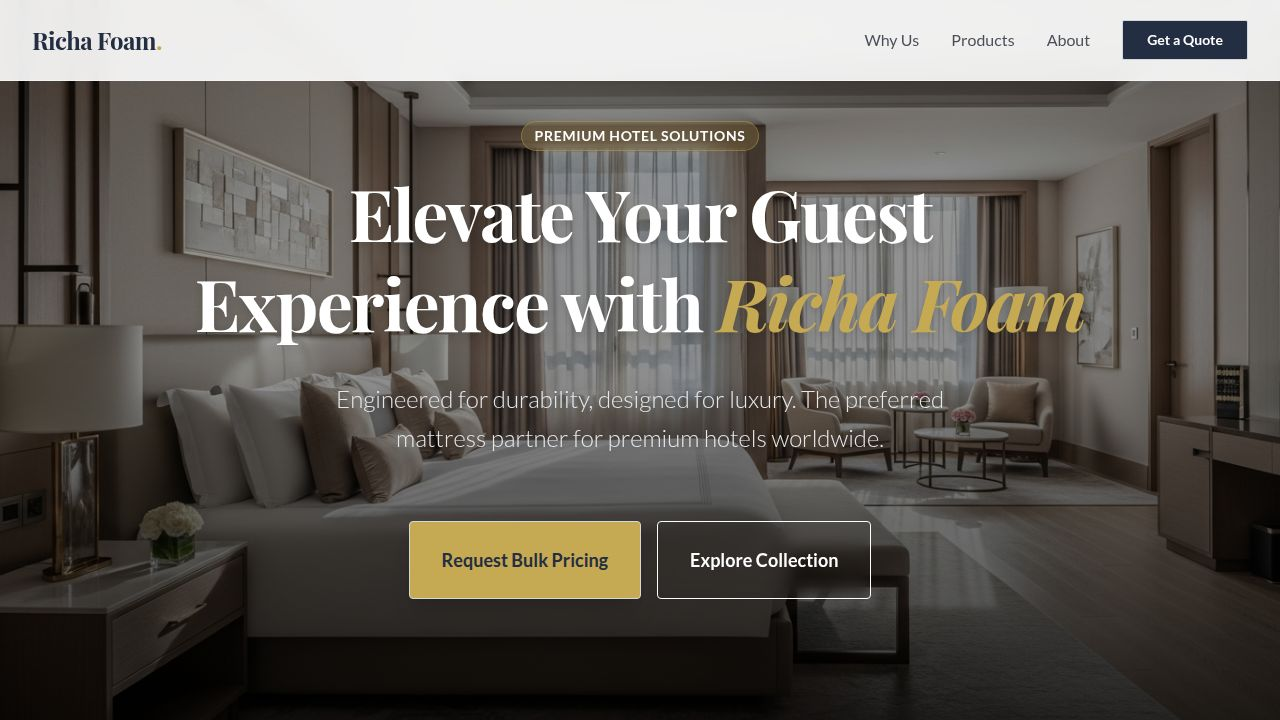
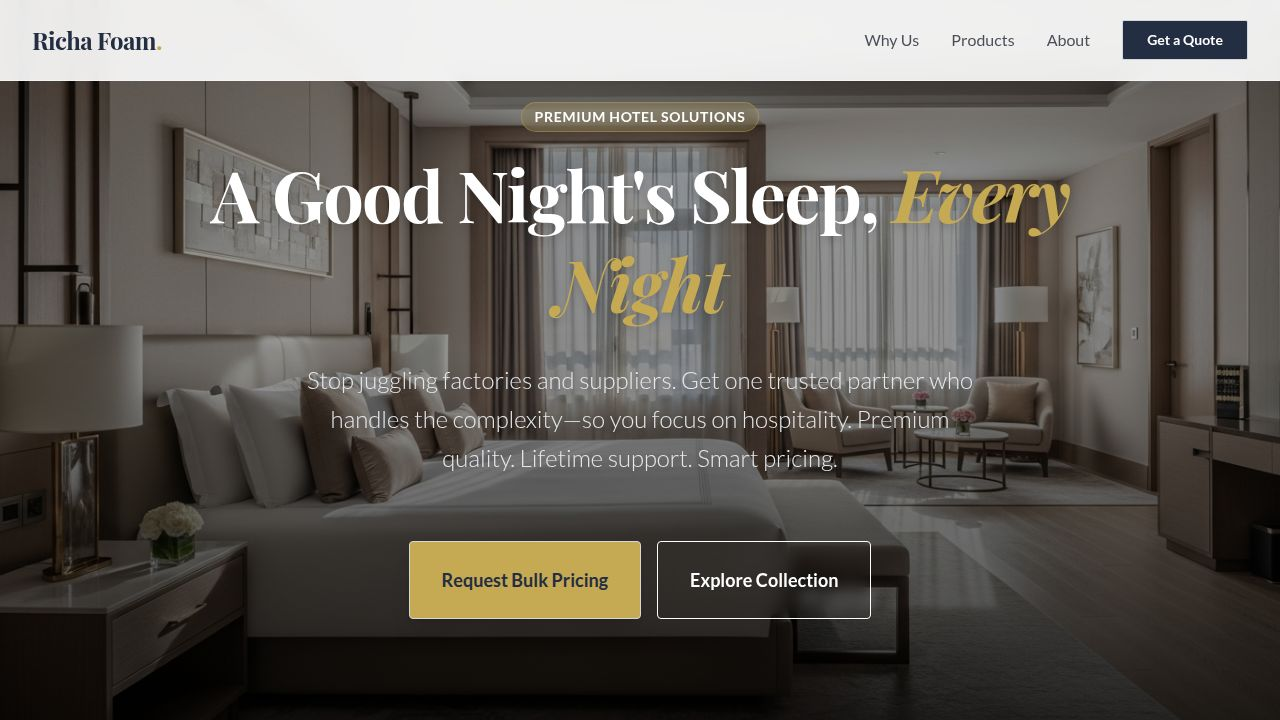
Refine hotel mattress messaging to highlight competitive advantages
Update features, hero, promo, and about sections to position Richa Foam as a superior alternative to direct factory sourcing and other mattress brands, emphasizing curated selection, lifetime partnership, and hospitality expertise.

Replit-Commit-Author: Agent
Replit-Commit-Session-Id: 7aa9aea3-01bd-4d13-ac9a-8d4055c0b0fe
Replit-Commit-Checkpoint-Type: full_checkpoint
Replit-Commit-Event-Id: 5ede35e4-c03d-41aa-bc40-f1e7d84f634d
Replit-Commit-Screenshot-Url: https://storage.googleapis.com/screenshot-production-us-central1/8c8f862c-461e-4e68-8e7f-c786b6db909b/7aa9aea3-01bd-4d13-ac9a-8d4055c0b0fe/F9gEGMt
Replit-Helium-Checkpoint-Created: true

diff --git a/client/src/components/features.tsx b/client/src/components/features.tsx
@@ -5,33 +5,33 @@ import { fadeIn, staggerContainer } from "@/lib/animations";
 const features = [
   {
     icon: BedDouble,
-    title: "Expert Consultation",
-    description: "Our team guides you to the perfect mattress selection based on your guests' needs and hotel requirements."
+    title: "Curated Selection, Not Factory Direct",
+    description: "We've vetted and tested dozens of options. You get only the best—no factory politics, no quality inconsistencies, no language barriers. We handle the complexity."
   },
   {
     icon: ShieldCheck,
-    title: "Lifetime Support",
-    description: "Backed by industry-leading after-sales support. We stand behind our products for the long term."
+    title: "Lifetime Partnership, Not Just a Sale",
+    description: "Unlike direct factory deals, we're here long-term. Lifetime after-sales support, warranty claims handling, and expert guidance whenever you need it."
   },
   {
     icon: Truck,
-    title: "Nationwide Delivery",
-    description: "Reliable logistics network ensuring timely bulk delivery for your hotel openings and renovations."
+    title: "One Point of Contact",
+    description: "No juggling multiple suppliers or factory negotiations. Single dedicated account manager. One phone call for logistics, support, and special requests."
   },
   {
     icon: Ruler,
-    title: "Complete Customization",
-    description: "Tailored solutions for your exact specifications—sizes, firmness, materials, and special requirements."
+    title: "Complete Customization Without Factory Hassle",
+    description: "Want specific sizes, firmness, or materials? We customize without the communication delays or MOQ frustrations of dealing direct with manufacturers."
   },
   {
     icon: HandCoins,
-    title: "Smart Investment",
-    description: "Premium quality mattresses that enhance guest reviews while protecting your budget and ROI."
+    title: "Better Margins Than Retail, Better Service Than Factory",
+    description: "Competitive pricing without sacrificing support. You get the value proposition other brands can't deliver—affordable quality with accountability."
   },
   {
     icon: Sparkles,
-    title: "Health-Focused Design",
-    description: "Mattresses engineered for orthopedic support, reducing guest complaints and improving satisfaction scores."
+    title: "Hospitality Expertise Included",
+    description: "20+ years in the hospitality space. We know what keeps guests satisfied, what reduces complaints, and what protects your reputation. Factory owners don't have this insight."
   }
 ];
 
@@ -40,9 +40,9 @@ export function Features() {
     <section id="features" className="py-24 bg-white">
       <div className="max-w-7xl mx-auto px-4 sm:px-6 lg:px-8">
         <div className="text-center mb-16">
-          <h2 className="text-3xl md:text-4xl font-serif font-bold text-primary mb-4">Why Top Hotels Choose Us</h2>
+          <h2 className="text-3xl md:text-4xl font-serif font-bold text-primary mb-4">Why Hotels Choose Richa Foam</h2>
           <p className="text-lg text-muted-foreground max-w-2xl mx-auto">
-            We understand the hospitality industry. Our products are engineered to maximize guest satisfaction while minimizing operational costs.
+            Skip the factory complexity. Get a trusted partner who handles the research, quality assurance, and support—so you focus on your guests.
           </p>
         </div>
 

diff --git a/client/src/components/promo-form.tsx b/client/src/components/promo-form.tsx
@@ -64,23 +64,23 @@ export function PromoForm() {
             </div>
 
             <h2 className="text-4xl md:text-5xl font-serif font-bold leading-tight text-primary">
-              Partner with Richa Foam <br />
-              <span className="text-accent">Special Rates Available</span>
+              Skip Factory Headaches <br />
+              <span className="text-accent">Partner with Experts</span>
             </h2>
 
             <p className="text-lg text-muted-foreground max-w-lg leading-relaxed">
-              Experience Richa Foam's trusted quality and expertise. For bulk hotel orders, we're offering special rates, expert consultation, and white-glove delivery. Let us help create the perfect sleep experience for your guests.
+              Don't waste time negotiating with 10 different factory owners. Let us handle the sourcing, quality checks, and logistics. Focus on running your hotel—we'll handle your guests' sleep.
             </p>
 
             <div className="space-y-3 pt-6 border-l-4 border-accent pl-6">
               <p className="text-sm text-foreground/80 font-semibold">
-                ✓ Exceptional pricing on orders 50+ units
+                ✓ Better pricing than retail, better service than factory direct
               </p>
               <p className="text-sm text-foreground/80 font-semibold">
-                ✓ Fast nationwide delivery with white-glove service
+                ✓ No MOQs, no negotiations—just expert guidance & fast delivery
               </p>
               <p className="text-sm text-foreground/80 font-semibold">
-                ✓ Dedicated support & customized solutions
+                ✓ Lifetime support + warranty handling we do, not you
               </p>
             </div>
           </motion.div>

diff --git a/client/src/pages/home.tsx b/client/src/pages/home.tsx
@@ -19,7 +19,7 @@ export default function Home() {
           <div className="max-w-4xl mx-auto px-4">
             <h2 className="text-3xl font-serif font-bold text-primary mb-6">About Richa Foam</h2>
             <p className="text-lg text-muted-foreground leading-relaxed">
-              At Richa Foam, we're committed to offering your guests a good night's sleep, every night. With over two decades of expertise, we craft mattresses with perfection—balancing comfort and support to push the boundaries of quality. Our complete customization, expert consultation, and lifetime after-sales support make us the trusted partner for hotels serious about guest satisfaction. From orthopedic support to pain relief, we deliver sleep solutions that improve fitness, wellness, and your property's reputation.
+              At Richa Foam, we're committed to offering your guests a good night's sleep, every night. Over 20 years, we've learned what works in hospitality. We don't just sell mattresses—we partner with hotels to remove the complexity of sourcing quality sleep solutions. While factory owners want minimum orders and offer zero support, and big brands prioritize margin over your needs, we do the research, handle quality assurance, manage logistics, and provide lifetime support. One partner. One phone call. Better margins. Zero factory headaches.
             </p>
           </div>
         </section>

diff --git a/client/src/components/hero.tsx b/client/src/components/hero.tsx
@@ -33,7 +33,7 @@ export function Hero() {
           </h1>
           
           <p className="text-xl md:text-2xl text-gray-200 max-w-2xl mx-auto font-light leading-relaxed drop-shadow-md">
-            Premium mattresses crafted for hotels that put guest comfort first. From Richa Foam—trusted for quality, customization, and expert guidance.
+            Stop juggling factories and suppliers. Get one trusted partner who handles the complexity—so you focus on hospitality. Premium quality. Lifetime support. Smart pricing.
           </p>
 
           <div className="flex flex-col sm:flex-row gap-4 justify-center items-center pt-8">
